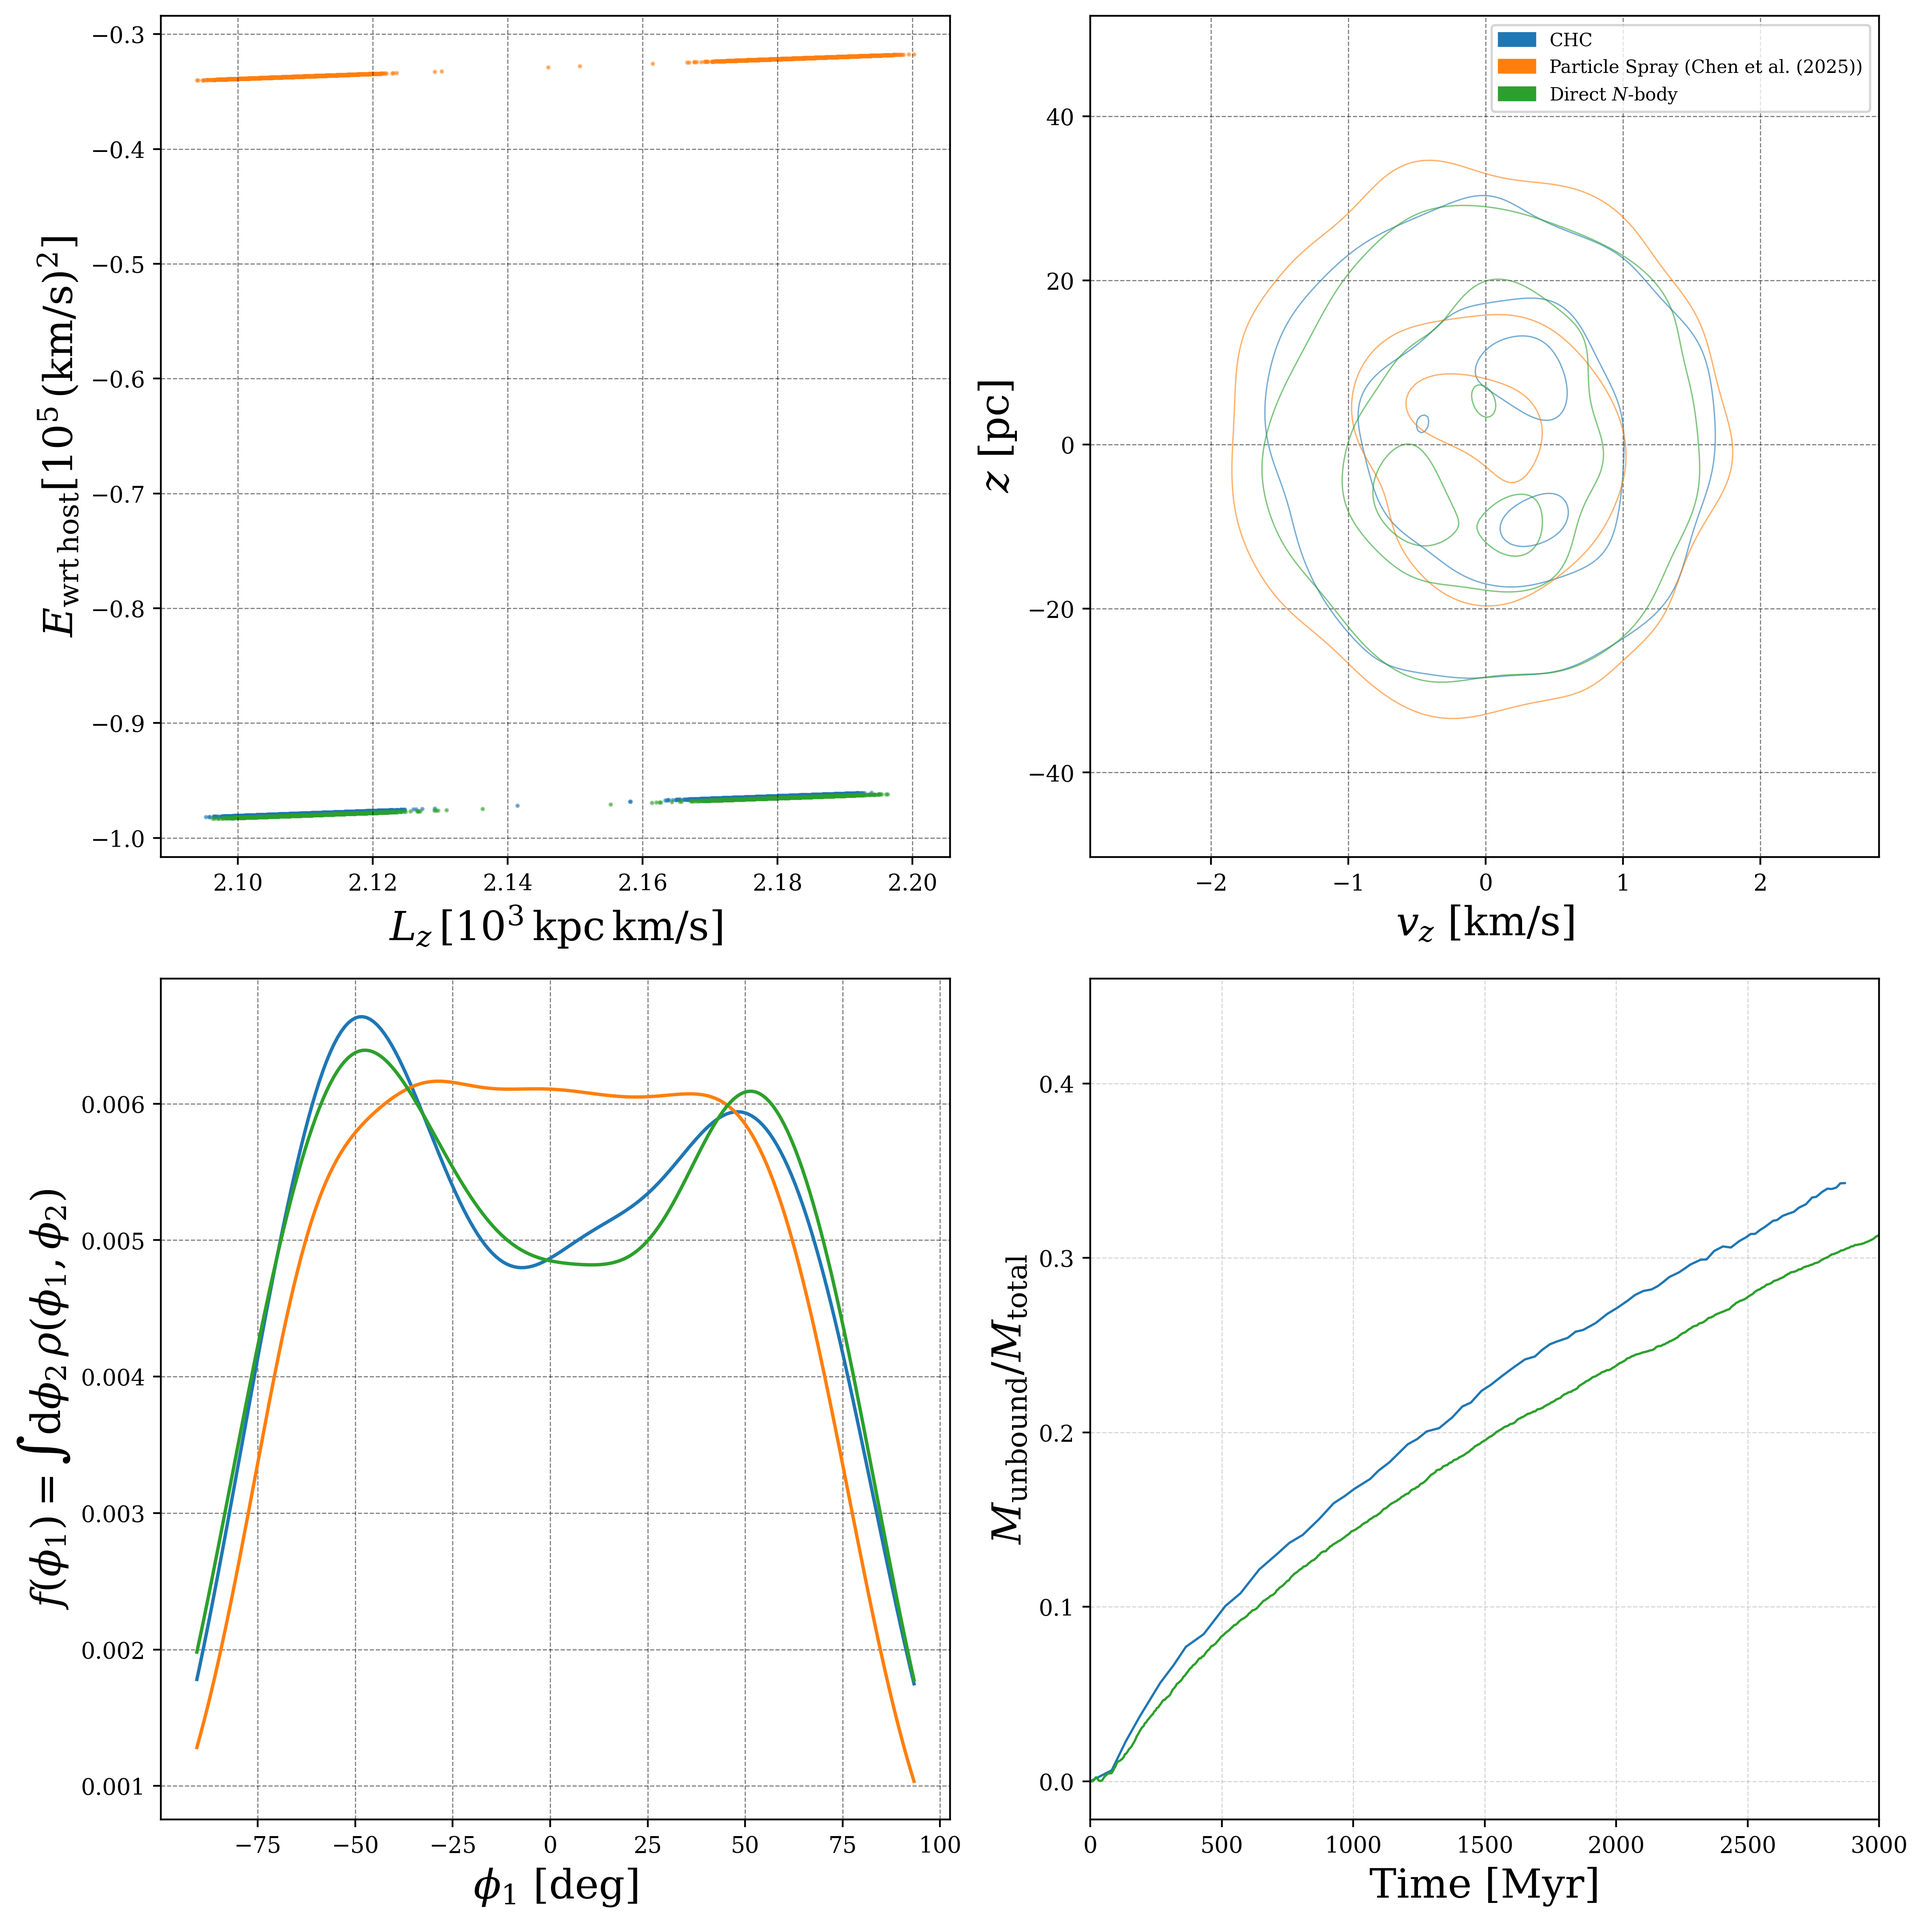
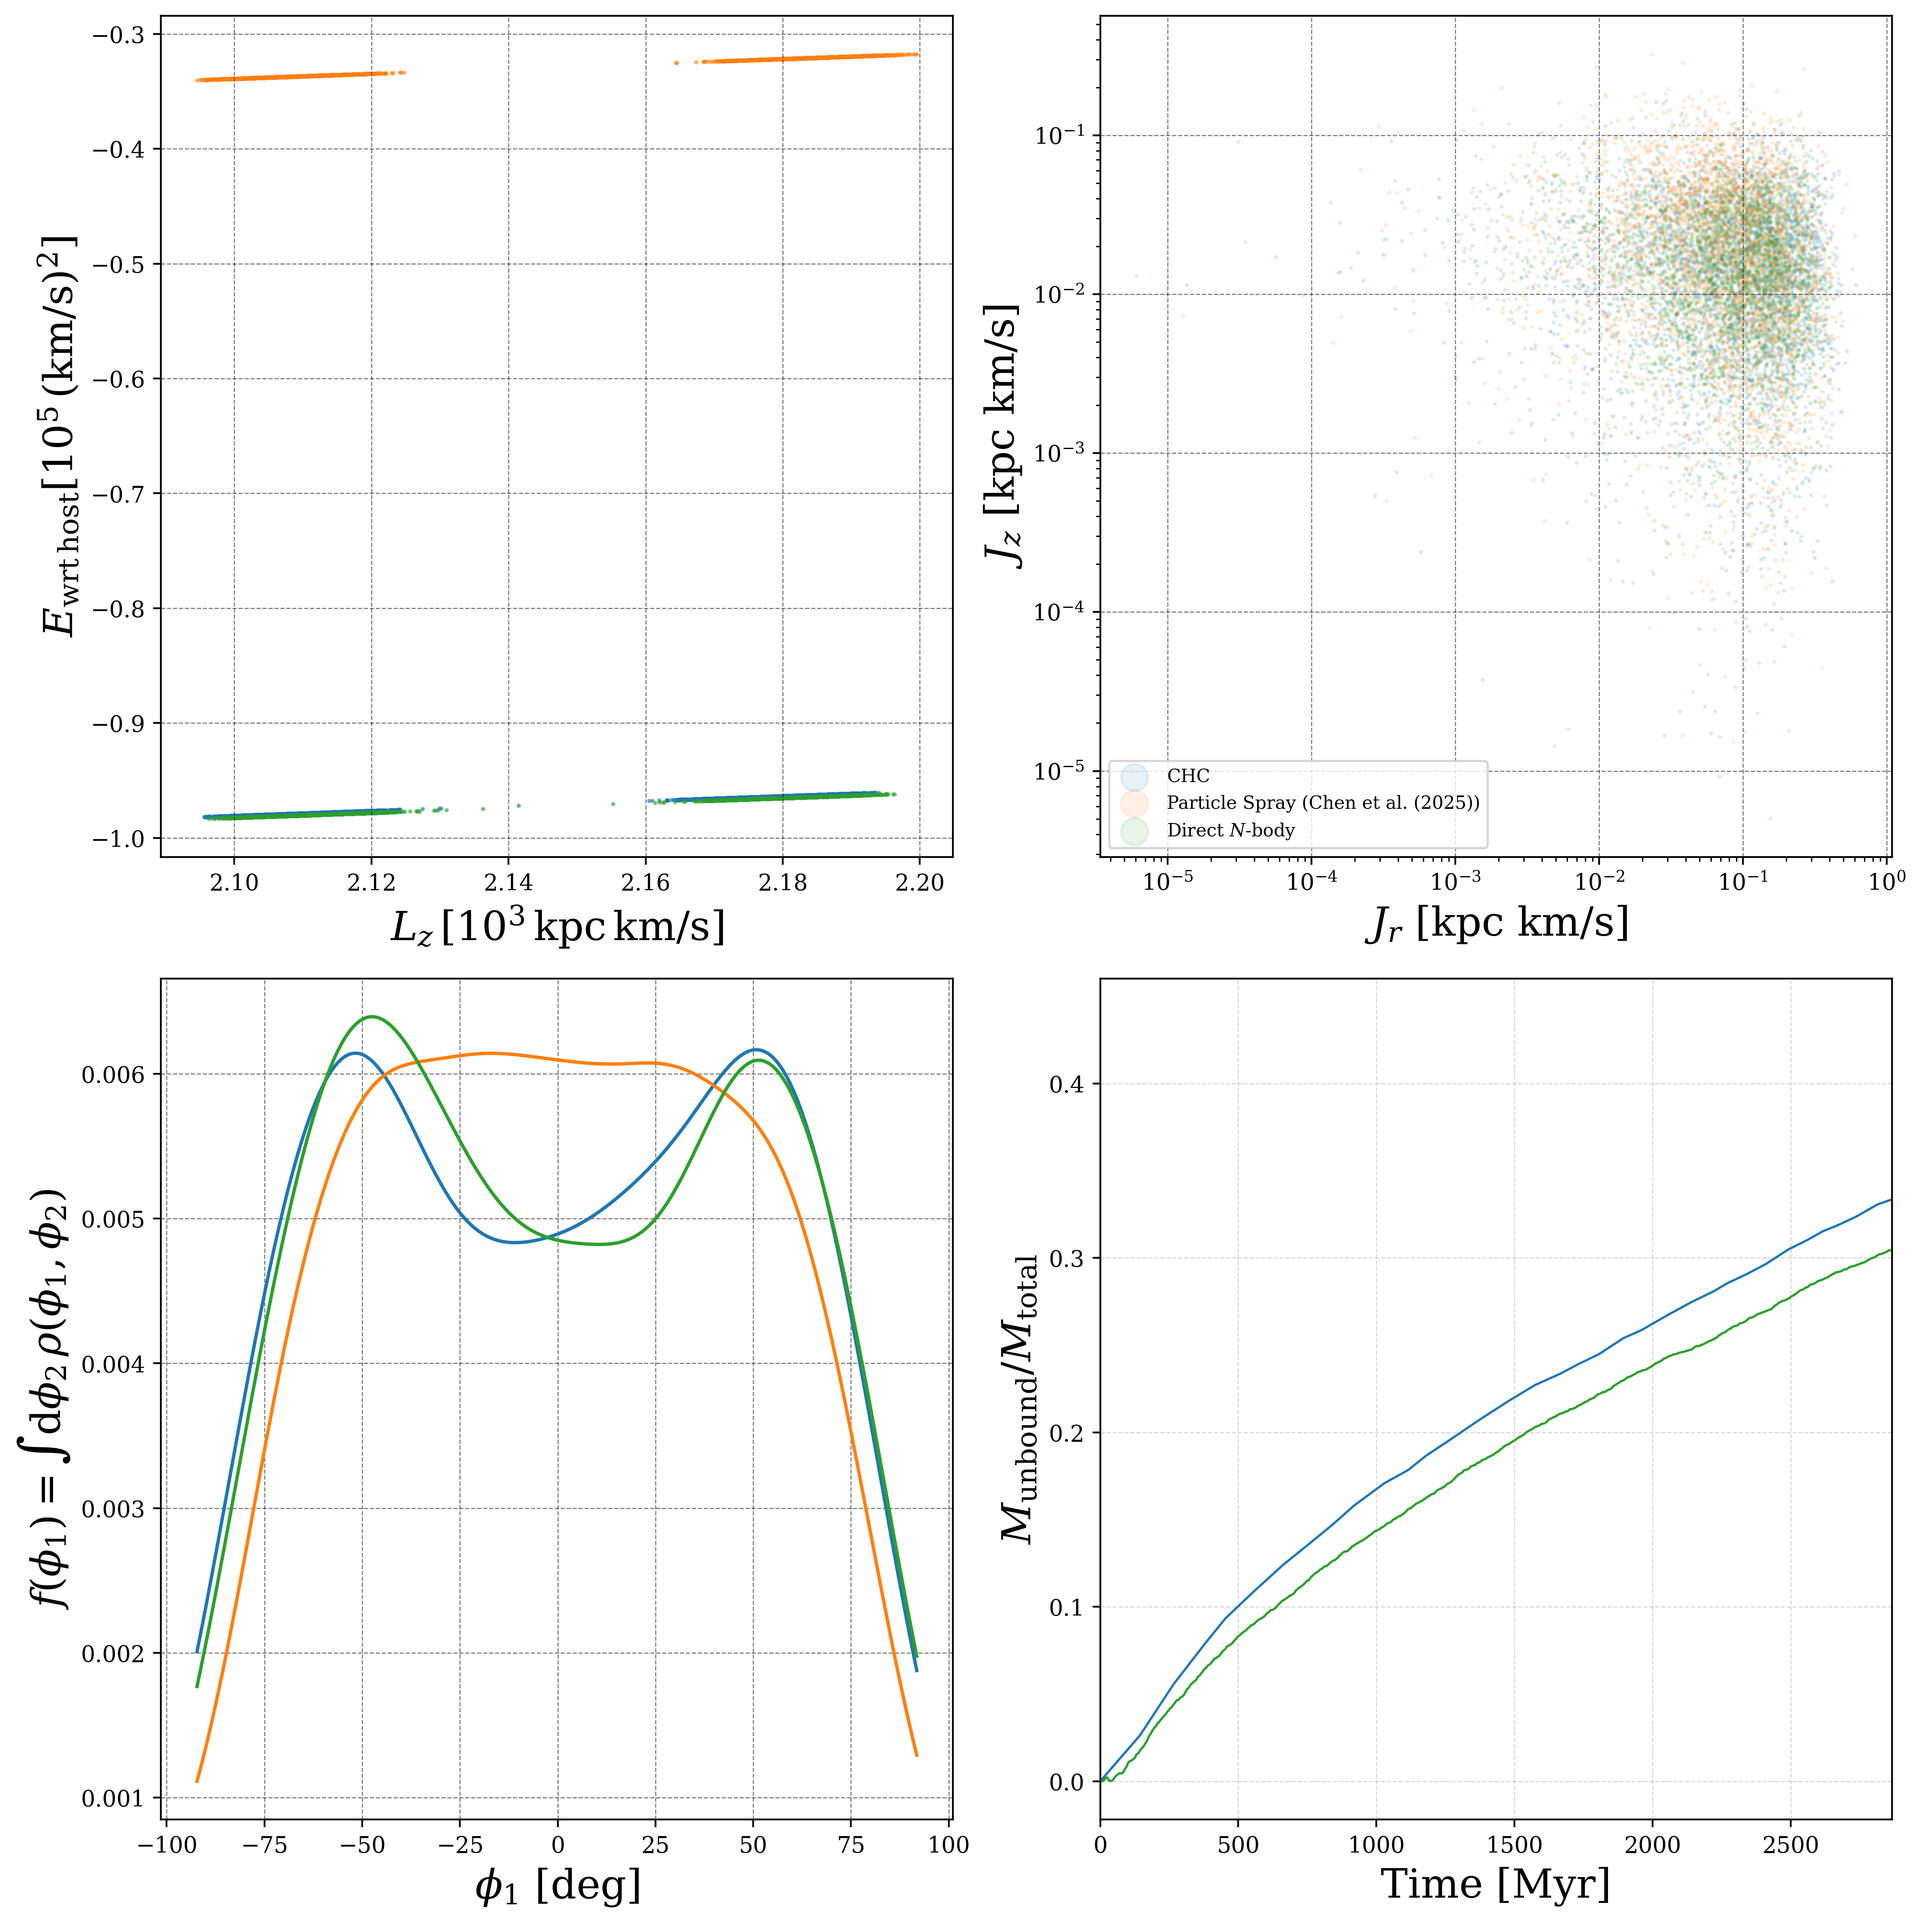
add actions from agama

diff --git a/circular_orbit_test.py b/circular_orbit_test.py
@@ -10,6 +10,8 @@ import matplotlib.patches as mpatches
 from matplotlib.colors import LogNorm
 
 import gala.coordinates as gc
+import gala.dynamics as gd
+
 import astropy.coordinates as coord
 import astropy.units as u
 
@@ -29,6 +31,33 @@ DATA_DIR = "/home/btcook/Desktop/chc_ii_paper/circular_orbit_subdir/"
 KPC_TO_PC = 1000.0
 KMS_TO_KPC_PER_MYR = 1 / 978.5
 
+import agama  # to calculate action
+
+agama.setUnits(length=1, velocity=1, mass=1)  # working units: 1 Msun, 1 kpc, 1 km/s
+
+actFinder = agama.ActionFinder(
+    agama.Potential(
+        "/home/btcook/Desktop/github_repositories/CHC/agama/data/MWPotential2014.ini"
+    )
+)
+
+
+def get_action_diffs(df_bound, df_unbound):
+    # Assumes df_bound and df_unbound are DataFrames with columns ['x','y','z','vx','vy','vz'] in AGAMA units
+    posvel_bound = df_bound[["x", "y", "z", "vx", "vy", "vz"]].to_numpy()
+    posvel_unbound = df_unbound[["x", "y", "z", "vx", "vy", "vz"]].to_numpy()
+
+    return actFinder(posvel_unbound)
+    """
+    actions_bound = actFinder(posvel_bound)
+    actions_unbound = actFinder(posvel_unbound)
+
+    mean_bound_action = np.mean(actions_bound, axis=0)
+
+    # shape (N_unbound, 3)
+    return actions_unbound - mean_bound_action
+    """
+
 
 def get_key(filename):
     return float(filename.split("_")[-1].replace(".csv", ""))
@@ -43,6 +72,8 @@ def load_data_chc():
     df_chc = pd.read_csv(last_snapshot, sep=", ")
     df_chc_bound = df_chc[df_chc["E_wrt_cluster"] < 0.0]
     df_chc_unbound = df_chc[df_chc["E_wrt_cluster"] >= 0.0]
+    action_diffs = get_action_diffs(df_chc_bound, df_chc_unbound)
+    df_chc_unbound["Jr"], df_chc_unbound["Jz"] = action_diffs[:, 0], action_diffs[:, 1]
 
     df_conserved_quantities_info = pd.read_csv(
         glob.glob(DATA_DIR + "chc_stream_no_stodolkiewicz/conserved_quantities_*.csv")[
@@ -300,7 +331,7 @@ def plot_streams(stream_info_dict):
     ax1 = axs[0, 0]
 
     for label, data in stream_info_dict.items():
-        Lz, Etot = data["L_z"], data["E_total"]
+        Lz, Etot = data["L_z"], data["E_wrt_host"]
         print(label, Etot.min(), Etot.max())
         ax1.scatter(Lz, Etot, c=colors[label], s=1, alpha=0.5, label=label)
 
@@ -314,55 +345,18 @@ def plot_streams(stream_info_dict):
     ax2 = axs[0, 1]
     legend_patches = []
     for label, data in stream_info_dict.items():
-        vz, z = data["vz"], data["z"] * 1000.0
+        Jr, Jz = data["Jr"], data["Jz"]
 
-        # Build KDE and evaluate it at each data point
-        kde = gaussian_kde(np.vstack([vz, z]))
-        kde_vals_at_data = kde(np.vstack([vz, z]))
-
-        # Sort KDE values at sample points, descending
-        sorted_kde_vals = np.sort(kde_vals_at_data)[::-1]
-
-        # Compute cumulative fraction of samples
-        cum_frac = np.cumsum(sorted_kde_vals)
-        cum_frac /= cum_frac[-1]  # normalize to 1
-
-        # Map desired data fractions to KDE thresholds
-        probs = [0.1, 0.5, 0.9]
-        levels = []
-        for p in probs:
-            idx = np.searchsorted(cum_frac, p)
-            levels.append(sorted_kde_vals[idx])
-
-        levels = sorted(levels)  # for contour plotting
-
-        # Plot KDE on grid
-        min_vz, max_vz = np.percentile(vz, 1.0), np.percentile(vz, 99.0)
-        min_z, max_z = np.percentile(z, 1.0), np.percentile(z, 99.0)
-
-        xi, yi = np.meshgrid(
-            np.linspace(min_vz, max_vz, 200),
-            np.linspace(min_z, max_z, 200),
-        )
-        zi = kde(np.vstack([xi.ravel(), yi.ravel()])).reshape(xi.shape)
-
-        contour = ax2.contour(
-            xi,
-            yi,
-            zi,
-            levels=levels,
-            colors=colors[label],
-            linewidths=0.6,
-            alpha=0.6,
+        sc = ax2.scatter(
+            Jr, Jz, c=colors[label], s=1, alpha=0.1, label=label
         )
 
-        # Create a proxy artist (colored patch) for the legend
-        legend_patches.append(mpatches.Patch(color=colors[label], label=label))
-
-    ax2.set_xlabel(r"$v_z$ [km/s]", fontsize=18)
-    ax2.set_ylabel(r"$z$ [pc]", fontsize=18)
+    ax2.set_xlabel(r"$J_{r}$ [kpc km/s]", fontsize=18)
+    ax2.set_ylabel(r"$J_{z}$ [kpc km/s]", fontsize=18)
+    ax2.set_xscale('log')
+    ax2.set_yscale('log')
     ax2.grid(linewidth=0.5, linestyle="--", c="k", alpha=0.5)
-    ax2.legend(handles=legend_patches, loc="best", fontsize=8)
+    ax2.legend(loc="best", markerscale=12, fontsize=8)
 
     # --- Panel 3: f(phi_1) = \int d \phi_2 rho(\phi_1, \phi_2) ---
     # Global bounds for consistency across panels
@@ -436,7 +430,7 @@ def plot_streams(stream_info_dict):
     ax4.set_xlabel(r"Time [Myr]", fontsize=18)
     ax4.set_ylabel(r"$M_{\rm unbound}/M_{\rm total}$", fontsize=18)
     ax4.set_aspect("auto")
-    ax4.set_xlim(0.0, 3000.0)
+    ax4.set_xlim(0.0, 2867.1)
     ax4.grid(linewidth=0.5, linestyle="--", alpha=0.5)
 
     plt.tight_layout()
@@ -454,13 +448,35 @@ def main():
     )
 
     df_chen = pd.read_csv(DATA_DIR + "chen_streams/chen_circular_orbit_stream.csv")
-    ref_point_vec_chen = np.array([10.0, 0.0, 0.0])
+    df_chen_bound, df_chen_unbound = (
+        df_chen[df_chen["source"] == "prog"],
+        df_chen[df_chen["source"] == "stream"],
+    )
+    action_diffs = get_action_diffs(df_chen_bound, df_chen_unbound)
+    df_chen_unbound["Jr"], df_chen_unbound["Jz"] = (
+        action_diffs[:, 0],
+        action_diffs[:, 1],
+    )
+
+    ref_point_vec_chen = np.array(
+        [
+            df_chen_bound["x"].mean(),
+            df_chen_bound["y"].mean(),
+            df_chen_bound["z"].mean(),
+        ]
+    )
 
     n_body_info_dict = load_data_n_body()
     df_n_body_bound, df_n_body_unbound = (
         n_body_info_dict["df_bound"],
         n_body_info_dict["df_unbound"],
     )
+    action_diffs = get_action_diffs(df_n_body_bound, df_n_body_unbound)
+    df_n_body_unbound["Jr"], df_n_body_unbound["Jz"] = (
+        action_diffs[:, 0],
+        action_diffs[:, 1],
+    )
+
     ref_point_vec_n_body = np.array(
         [
             df_n_body_bound["x"].mean(),
@@ -475,25 +491,25 @@ def main():
     stream_info_dict = {
         "CHC": {
             "L_z": df_chc_unbound["L_z"] / (1e3 * m_star),
-            "E_total": df_chc_unbound["E_total"] / (1e5 * m_star),
+            "E_wrt_host": df_chc_unbound["E_wrt_host"] / (1e5 * m_star),
             "phi_info": get_phi_info(df_chc_unbound, ref_point_vec_chc),
-            "z": df_chc_unbound["z"],
-            "vz": df_chc_unbound["vz"],
+            "Jr": df_chc_unbound["Jr"],
+            "Jz": df_chc_unbound["Jz"],
             "info_dict": chc_info_dict,
         },
         "Particle Spray (Chen et al. (2025))": {
-            "L_z": df_chen["L_z"] / 1e3,
-            "E_total": df_chen["E_total"] / (1e5),
-            "phi_info": get_phi_info(df_chen, ref_point_vec_chen),
-            "z": df_chen["z"],
-            "vz": df_chen["vz"],
+            "L_z": df_chen_unbound["L_z"] / 1e3,
+            "E_wrt_host": df_chen_unbound["E_wrt_host"] / (1e5),
+            "phi_info": get_phi_info(df_chen_unbound, ref_point_vec_chen),
+            "Jr": df_chen_unbound["Jr"],
+            "Jz": df_chen_unbound["Jz"],
         },
         r"Direct $N$-body": {
             "L_z": df_n_body_unbound["L_z"] / 1e3,
-            "E_total": df_n_body_unbound["E_total"] / (1e5 * m_star),
+            "E_wrt_host": df_n_body_unbound["E_wrt_host"] / (1e5 * m_star),
             "phi_info": get_phi_info(df_n_body_unbound, ref_point_vec_n_body),
-            "z": df_n_body_unbound["z"],
-            "vz": df_n_body_unbound["vz"],
+            "Jr": df_n_body_unbound["Jr"],
+            "Jz": df_n_body_unbound["Jz"],
             "info_dict": n_body_info_dict,
         },
     }

diff --git a/generate_chen_particle_spray_streams.py b/generate_chen_particle_spray_streams.py
@@ -8,6 +8,16 @@ import gala.dynamics as gd
 from gala.dynamics import mockstream as ms
 from gala.units import galactic
 
+import agama  # to calculate action
+
+agama.setUnits(length=1, velocity=1, mass=1)  # working units: 1 Msun, 1 kpc, 1 km/s
+
+actFinder = agama.ActionFinder(
+    agama.Potential(
+        "/home/btcook/Desktop/github_repositories/CHC/agama/data/MWPotential2014.ini"
+    )
+)
+
 
 # Function to extract coordinates, velocities, E, Lz
 def extract_particle_data(
@@ -15,7 +25,7 @@ def extract_particle_data(
     stream_info_dict,
     source_label,
 ):
-    Etot = stream_info_dict["hamiltonian"].potential.total_energy(
+    E_wrt_host = stream_info_dict["hamiltonian"].potential.total_energy(
         particle.pos.xyz, particle.vel.d_xyz
     )
     Lz = particle.angular_momentum()[2]
@@ -29,7 +39,7 @@ def extract_particle_data(
             "vx": particle.vel.d_x.to(u.km / u.s).value,
             "vy": particle.vel.d_y.to(u.km / u.s).value,
             "vz": particle.vel.d_z.to(u.km / u.s).value,
-            "E_total": Etot.to((u.km / u.s) ** 2.0).value,
+            "E_wrt_host": E_wrt_host.to((u.km / u.s) ** 2.0).value,
             "L_z": Lz.to(u.kpc * u.km / u.s).value,
             "source": source_label,
         }
